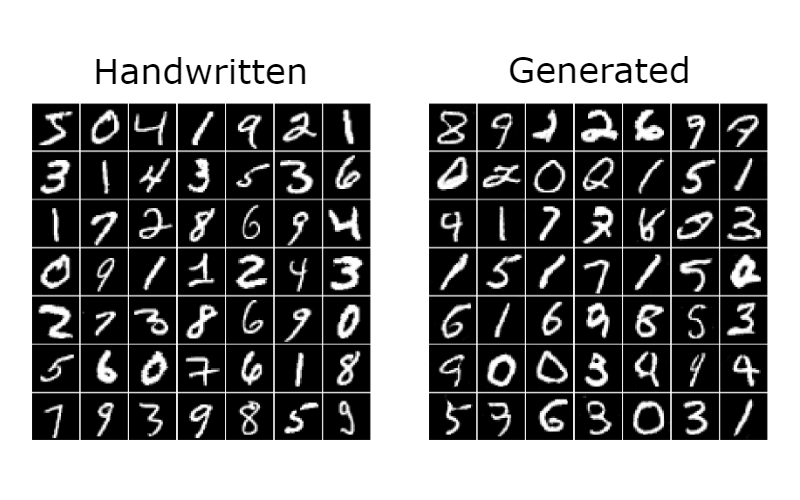
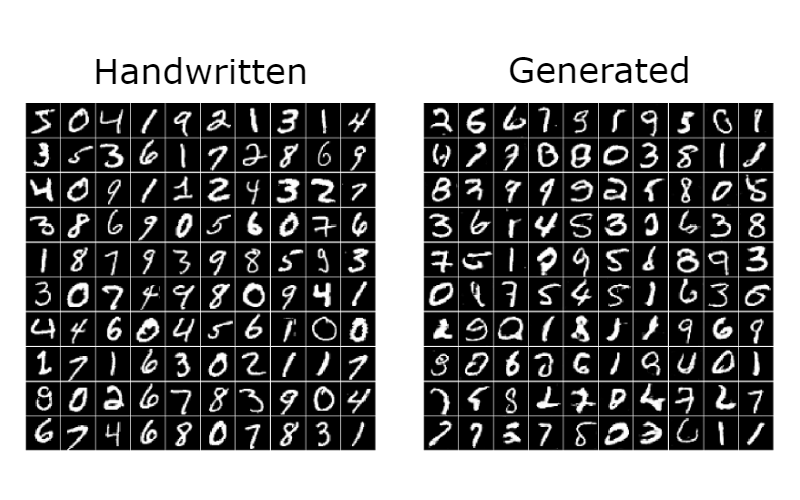
Made the generator and discriminator purely convolutional. Created a simple gan as a baseline model for comparison.

diff --git a/dcgan.py b/dcgan.py
@@ -1,152 +1,82 @@
-import math
 import numpy as np
 import tensorflow as tf
-import matplotlib.pyplot as plt
-import matplotlib.gridspec as gridspec
-from tensorflow.keras.datasets import mnist
-
-EPS = 1e-12
-NUM_EPOCHS = 50
-BATCH_SIZE = 128
-LEARNING_RATE = 0.0002
-BETA1 = 0.5
-NOISE_DIM = 100
-IMG_DIMS = (28, 28)
-
-def load_mnist_data():
-    (X_train, _), _ = mnist.load_data()
-
-    return X_train
-
-def preprocess(data):
-    data = data / 255
-    data = data - 0.5
-    data = data * 2
-    data = np.expand_dims(data, axis=-1)
-    return data
-
-def postprocess(data):
-    data = np.squeeze(data, axis=-1)
-    data = data / 2
-    data = data + 0.5
-    data = data * 255
-    return data
-
-def plot_data(mnist_data, plot_name):
-    n = 7
-    fig = plt.figure(figsize=(10, 10))
-    for i in range(n*n):
-        ax = plt.subplot(n, n, i + 1)
-        ax.imshow(mnist_data[i], cmap=plt.get_cmap("gray"))
-        ax.axis("off")
-        ax.set_xticklabels([])
-        ax.set_yticklabels([])
-    fig.subplots_adjust(hspace=0.025, wspace=0.025)
-    plt.savefig("output/" + plot_name, bbox_inches="tight")
-    plt.clf()
-
-def random_mini_batches(data, batch_size):
-    mini_batches = []
-    m = data.shape[0]
-    np.random.shuffle(data)
-
-    # Partition into mini-batches
-    num_complete_batches = math.floor(m / batch_size)
-    for i in range(num_complete_batches):
-        batch = data[i * batch_size : (i + 1) * batch_size]
-        mini_batches.append(batch)
-
-    # Handling the case that the last mini-batch < batch_size
-    if m % batch_size != 0:
-        batch = data[num_complete_batches * batch_size : m]
-        mini_batches.append(batch)
-
-    return mini_batches
-
-def generate_Z_batch(size):
-    return np.random.uniform(low=-1, high=1, size=size)
+import utils
 
 def generator(Z, is_training):
-    with tf.variable_scope("GAN/Generator"):
+    with tf.variable_scope("Generator"):
         x = Z
-        # x.shape: (?, 100)
+        # x.shape: (?, 1, 1, 100)
 
-        # You don't need to add a bias term before applying batch norm.
-        # Batch norm adds its own bias term.
-        x = tf.layers.dense(x, units=7*7*256, use_bias=False)
+        x = tf.layers.conv2d_transpose(x, 256, 7, strides=1, padding="valid", use_bias=False)
         x = tf.layers.batch_normalization(x, training=is_training)
         x = tf.nn.leaky_relu(x)
-        x = tf.reshape(x, shape=[-1, 7, 7, 256])
         # x.shape: (?, 7, 7, 256)
 
-        x = tf.layers.conv2d_transpose(x, kernel_size=5, filters=128, strides=1, padding="same", use_bias=False)
+        x = tf.layers.conv2d_transpose(x, 128, 5, strides=2, padding="same", use_bias=False)
         x = tf.layers.batch_normalization(x, training=is_training)
         x = tf.nn.leaky_relu(x)
-        # x.shape: (?, 7, 7, 128)
+        # x.shape: (?, 14, 14, 128)
 
-        x = tf.layers.conv2d_transpose(x, kernel_size=5, filters=64, strides=2, padding="same", use_bias=False)
-        x = tf.layers.batch_normalization(x, training=is_training)
-        x = tf.nn.leaky_relu(x)
-        # x.shape: (?, 14, 14, 64)
-
-        x = tf.layers.conv2d_transpose(x, kernel_size=5, filters=1, strides=2, padding="same", use_bias=False)
+        x = tf.layers.conv2d_transpose(x, 1, 5, strides=2, padding="same")
         x = tf.nn.tanh(x)
         # x.shape: (?, 28, 28, 1)
 
     return x
 
 def discriminator(X, is_training, reuse=False):
-    with tf.variable_scope("GAN/Discriminator", reuse=reuse):
+    with tf.variable_scope("Discriminator", reuse=reuse):
         x = X
         # x.shape: (?, 28, 28, 1)
 
-        x = tf.layers.conv2d(x, kernel_size=5, filters=64, strides=2, padding="same", use_bias=False)
+        x = tf.layers.conv2d(x, 128, 5, strides=2, padding="same", use_bias=False)
         x = tf.layers.batch_normalization(x, training=is_training)
         x = tf.nn.leaky_relu(x)
-        # x.shape: (?, 14, 14, 64)
+        # x.shape: (?, 14, 14, 128)
 
-        x = tf.layers.conv2d(x, kernel_size=5, filters=128, strides=2, padding="same", use_bias=False)
+        x = tf.layers.conv2d(x, 256, 5, strides=2, padding="same", use_bias=False)
         x = tf.layers.batch_normalization(x, training=is_training)
         x = tf.nn.leaky_relu(x)
-        # x.shape: (?, 7, 7, 128)
+        # x.shape: (?, 7, 7, 256)
 
-        x = tf.layers.flatten(x)
-        x = tf.layers.dense(x, 1)
+        x = tf.layers.conv2d(x, 1, 7, strides=1, padding="valid")
         x = tf.nn.sigmoid(x)
-        # x.shape: (?, 1)
+        # x.shape: (?, 1, 1, 1)
 
     return x
 
-def create_model(X, Z, is_training):
-    gen_out = generator(Z, is_training)
-    disc_out_real = discriminator(X, is_training)
-    disc_out_fake = discriminator(gen_out, is_training, reuse=True)
+def create_gan(X, Z, is_training):
+    G = generator(Z, is_training)
+    D_real = discriminator(X, is_training)
+    D_fake = discriminator(G, is_training, reuse=True)
+    
+    return G, D_real, D_fake
 
-    return gen_out, disc_out_real, disc_out_fake
+# Define constants
+NUM_EPOCHS = 20
+BATCH_SIZE = 128
+LEARNING_RATE = 0.0002
+BETA1 = 0.5
+NOISE_DIM = 100
+SAMPLE_SIZE = 100
 
 # Load mnist data
-mnist_data = load_mnist_data()
-plot_data(mnist_data, "mnist_data.png")
-mnist_data = preprocess(mnist_data)
-mini_batches = random_mini_batches(mnist_data, BATCH_SIZE)
+X_train = utils.load_mnist_data()
+utils.plot_sample(X_train[:SAMPLE_SIZE], "output/mnist_data.png")
+X_train = utils.preprocess_images(X_train)
+mini_batches = utils.random_mini_batches(X_train, BATCH_SIZE)
 
-# Create model
-X = tf.placeholder(tf.float32, [None, IMG_DIMS[0], IMG_DIMS[1], 1])
-Z = tf.placeholder(tf.float32, [None, NOISE_DIM])
-is_training = tf.placeholder_with_default(False, shape=())
-gen_out, disc_out_real, disc_out_fake = create_model(X, Z, is_training)
-
-# Create loss functions
-disc_loss_func = tf.reduce_mean(-(tf.log(disc_out_real + EPS) + tf.log(1 - disc_out_fake + EPS)))
-gen_loss_func = tf.reduce_mean(-tf.log(disc_out_fake + EPS))
-
-# Get variables
-gen_vars = tf.get_collection(tf.GraphKeys.GLOBAL_VARIABLES, scope="GAN/Generator")
-disc_vars = tf.get_collection(tf.GraphKeys.GLOBAL_VARIABLES, scope="GAN/Discriminator")
+# Create DCGAN
+X = tf.placeholder(tf.float32, shape=(None, X_train.shape[1], X_train.shape[2], X_train.shape[3]))
+Z = tf.placeholder(tf.float32, [None, 1, 1, NOISE_DIM])
+is_training = tf.placeholder(tf.bool, shape=())
+G, D_real, D_fake = create_gan(X, Z, is_training)
 
 # Create training steps
-gen_train_step = tf.train.AdamOptimizer(learning_rate=LEARNING_RATE, beta1=BETA1).minimize(gen_loss_func, var_list=gen_vars)
-disc_train_step = tf.train.AdamOptimizer(learning_rate=LEARNING_RATE, beta1=BETA1).minimize(disc_loss_func, var_list=disc_vars)
+G_loss_func, D_loss_func = utils.create_loss_funcs(D_real, D_fake)
+G_vars = tf.get_collection(tf.GraphKeys.GLOBAL_VARIABLES, scope="Generator")
+D_vars = tf.get_collection(tf.GraphKeys.GLOBAL_VARIABLES, scope="Discriminator")
+G_train_step = tf.train.AdamOptimizer(learning_rate=LEARNING_RATE, beta1=BETA1).minimize(G_loss_func, var_list=G_vars)
+D_train_step = tf.train.AdamOptimizer(learning_rate=LEARNING_RATE, beta1=BETA1).minimize(D_loss_func, var_list=D_vars)
 
 # Start session
 with tf.Session() as sess:
@@ -155,18 +85,18 @@ with tf.Session() as sess:
     # Training loop
     for epoch in range(NUM_EPOCHS):
         for X_batch in mini_batches:
-            Z_batch = generate_Z_batch((X_batch.shape[0], NOISE_DIM))
+            Z_batch = utils.generate_Z_batch((X_batch.shape[0], 1, 1, NOISE_DIM))
 
             # Compute losses
-            gen_loss, disc_loss = sess.run([gen_loss_func, disc_loss_func], feed_dict={X: X_batch, Z: Z_batch, is_training: True})
-            print("Epoch " + str(epoch) + " - gen_loss: " + str(gen_loss) + ", disc_loss: " + str(disc_loss))
+            G_loss, D_loss = sess.run([G_loss_func, D_loss_func], feed_dict={X: X_batch, Z: Z_batch, is_training: True})
+            print("Epoch [%d/%d] - G_loss: %f, D_loss: %f" % (epoch, NUM_EPOCHS - 1, G_loss, D_loss))
 
             # Run training steps
-            _ = sess.run(gen_train_step, feed_dict={Z: Z_batch, is_training: True})
-            _ = sess.run(disc_train_step, feed_dict={X: X_batch, Z: Z_batch, is_training: True})
+            _ = sess.run(G_train_step, feed_dict={Z: Z_batch, is_training: True})
+            _ = sess.run(D_train_step, feed_dict={X: X_batch, Z: Z_batch, is_training: True})
 
         # Plot generated images
-        Z_batch = generate_Z_batch((BATCH_SIZE, NOISE_DIM))
-        gen_imgs = sess.run(gen_out, feed_dict={Z: Z_batch, is_training: True})
-        gen_imgs = postprocess(gen_imgs)
-        plot_data(gen_imgs, "gen_data_" + str(epoch) + ".png")
+        Z_batch = utils.generate_Z_batch((SAMPLE_SIZE, 1, 1, NOISE_DIM))
+        gen_imgs = sess.run(G, feed_dict={Z: Z_batch, is_training: True})
+        gen_imgs = utils.postprocess_images(gen_imgs)
+        utils.plot_sample(gen_imgs, "output/dcgan/dcgan_gen_data_" + str(epoch) + ".png")

diff --git a/gan.py b/gan.py
@@ -1,0 +1,75 @@
+import numpy as np
+import tensorflow as tf
+import utils
+
+def generator(Z):
+    with tf.variable_scope("Generator"):
+        x = tf.layers.dense(Z, 128, activation="relu")
+        x = tf.layers.dense(x, 784, activation="tanh")
+        x = tf.reshape(x, [-1, 28, 28, 1])
+    
+    return x
+
+def discriminator(X, reuse=False):
+    with tf.variable_scope("Discriminator", reuse=reuse):
+        x = tf.layers.flatten(X)
+        x = tf.layers.dense(x, 128, activation="relu")
+        x = tf.layers.dense(x, 1, activation="sigmoid")
+
+    return x
+
+def create_gan(X, Z):
+    G = generator(Z)
+    D_real = discriminator(X)
+    D_fake = discriminator(G, reuse=True)
+
+    return G, D_real, D_fake
+
+# Define constants
+NUM_EPOCHS = 100
+BATCH_SIZE = 128
+LEARNING_RATE = 0.0002
+BETA1 = 0.5
+NOISE_DIM = 100
+SAMPLE_SIZE = 100
+
+# Load mnist data
+X_train = utils.load_mnist_data()
+utils.plot_sample(X_train[:SAMPLE_SIZE], "output/mnist_data.png")
+X_train = utils.preprocess_images(X_train)
+mini_batches = utils.random_mini_batches(X_train, BATCH_SIZE)
+
+# Create DCGAN
+X = tf.placeholder(tf.float32, shape=(None, X_train.shape[1], X_train.shape[2], X_train.shape[3]))
+Z = tf.placeholder(tf.float32, [None, NOISE_DIM])
+G, D_real, D_fake = create_gan(X, Z)
+
+# Create training steps
+G_loss_func, D_loss_func = utils.create_loss_funcs(D_real, D_fake)
+G_vars = tf.get_collection(tf.GraphKeys.GLOBAL_VARIABLES, scope="Generator")
+D_vars = tf.get_collection(tf.GraphKeys.GLOBAL_VARIABLES, scope="Discriminator")
+G_train_step = tf.train.AdamOptimizer(learning_rate=LEARNING_RATE, beta1=BETA1).minimize(G_loss_func, var_list=G_vars)
+D_train_step = tf.train.AdamOptimizer(learning_rate=LEARNING_RATE, beta1=BETA1).minimize(D_loss_func, var_list=D_vars)
+
+# Start session
+with tf.Session() as sess:
+    sess.run(tf.global_variables_initializer())
+
+    # Training loop
+    for epoch in range(NUM_EPOCHS):
+        for X_batch in mini_batches:
+            Z_batch = utils.generate_Z_batch((X_batch.shape[0], NOISE_DIM))
+
+            # Compute losses
+            G_loss, D_loss = sess.run([G_loss_func, D_loss_func], feed_dict={X: X_batch, Z: Z_batch})
+            print("Epoch [%d/%d] - G_loss: %f, D_loss: %f" % (epoch, NUM_EPOCHS - 1, G_loss, D_loss))
+
+            # Run training steps
+            _ = sess.run(G_train_step, feed_dict={Z: Z_batch})
+            _ = sess.run(D_train_step, feed_dict={X: X_batch, Z: Z_batch})
+
+        # Plot generated images
+        Z_batch = utils.generate_Z_batch((SAMPLE_SIZE, NOISE_DIM))
+        gen_imgs = sess.run(G, feed_dict={Z: Z_batch})
+        gen_imgs = utils.postprocess_images(gen_imgs)
+        utils.plot_sample(gen_imgs, "output/gan/gan_gen_data_" + str(epoch) + ".png")

diff --git a/utils.py b/utils.py
@@ -1,0 +1,66 @@
+import math
+import numpy as np
+import tensorflow as tf
+import matplotlib.pyplot as plt
+import matplotlib.gridspec as gridspec
+from tensorflow.keras.datasets import mnist
+
+def load_mnist_data():
+    (X_train, _), _ = mnist.load_data()
+    return X_train
+
+def preprocess_images(X):
+    X = X / 255
+    X = X - 0.5
+    X = X * 2
+    X = np.expand_dims(X, axis=-1)
+    return X
+
+def postprocess_images(X):
+    X = np.squeeze(X, axis=-1)
+    X = X / 2
+    X = X + 0.5
+    X = X * 255
+    return X
+
+def generate_Z_batch(size):
+    return np.random.uniform(low=-1, high=1, size=size)
+
+def plot_sample(sample, path):
+    n = int(np.sqrt(sample.shape[0]))
+    fig = plt.figure(figsize=(8, 8))
+    for i in range(n*n):
+        ax = plt.subplot(n, n, i + 1)
+        ax.imshow(sample[i], cmap=plt.get_cmap("gray"))
+        ax.axis("off")
+        ax.set_xticklabels([])
+        ax.set_yticklabels([])
+    fig.subplots_adjust(hspace=0.025, wspace=0.025)
+    plt.savefig(path, bbox_inches="tight")
+    plt.clf()
+    plt.close()
+
+def random_mini_batches(X, batch_size):
+    mini_batches = []
+    m = X.shape[0]
+    np.random.shuffle(X)
+
+    # Partition into mini-batches
+    num_complete_batches = math.floor(m / batch_size)
+    for i in range(num_complete_batches):
+        batch = X[i * batch_size : (i + 1) * batch_size]
+        mini_batches.append(batch)
+
+    # Handling the case that the last mini-batch < batch_size
+    if m % batch_size != 0:
+        batch = X[num_complete_batches * batch_size : m]
+        mini_batches.append(batch)
+
+    return mini_batches
+
+def create_loss_funcs(D_real, D_fake):
+    eps = 1e-12
+    G_loss_func = tf.reduce_mean(-tf.log(D_fake + eps))
+    D_loss_func = tf.reduce_mean(-(tf.log(D_real + eps) + tf.log(1 - D_fake + eps)))
+
+    return G_loss_func, D_loss_func
